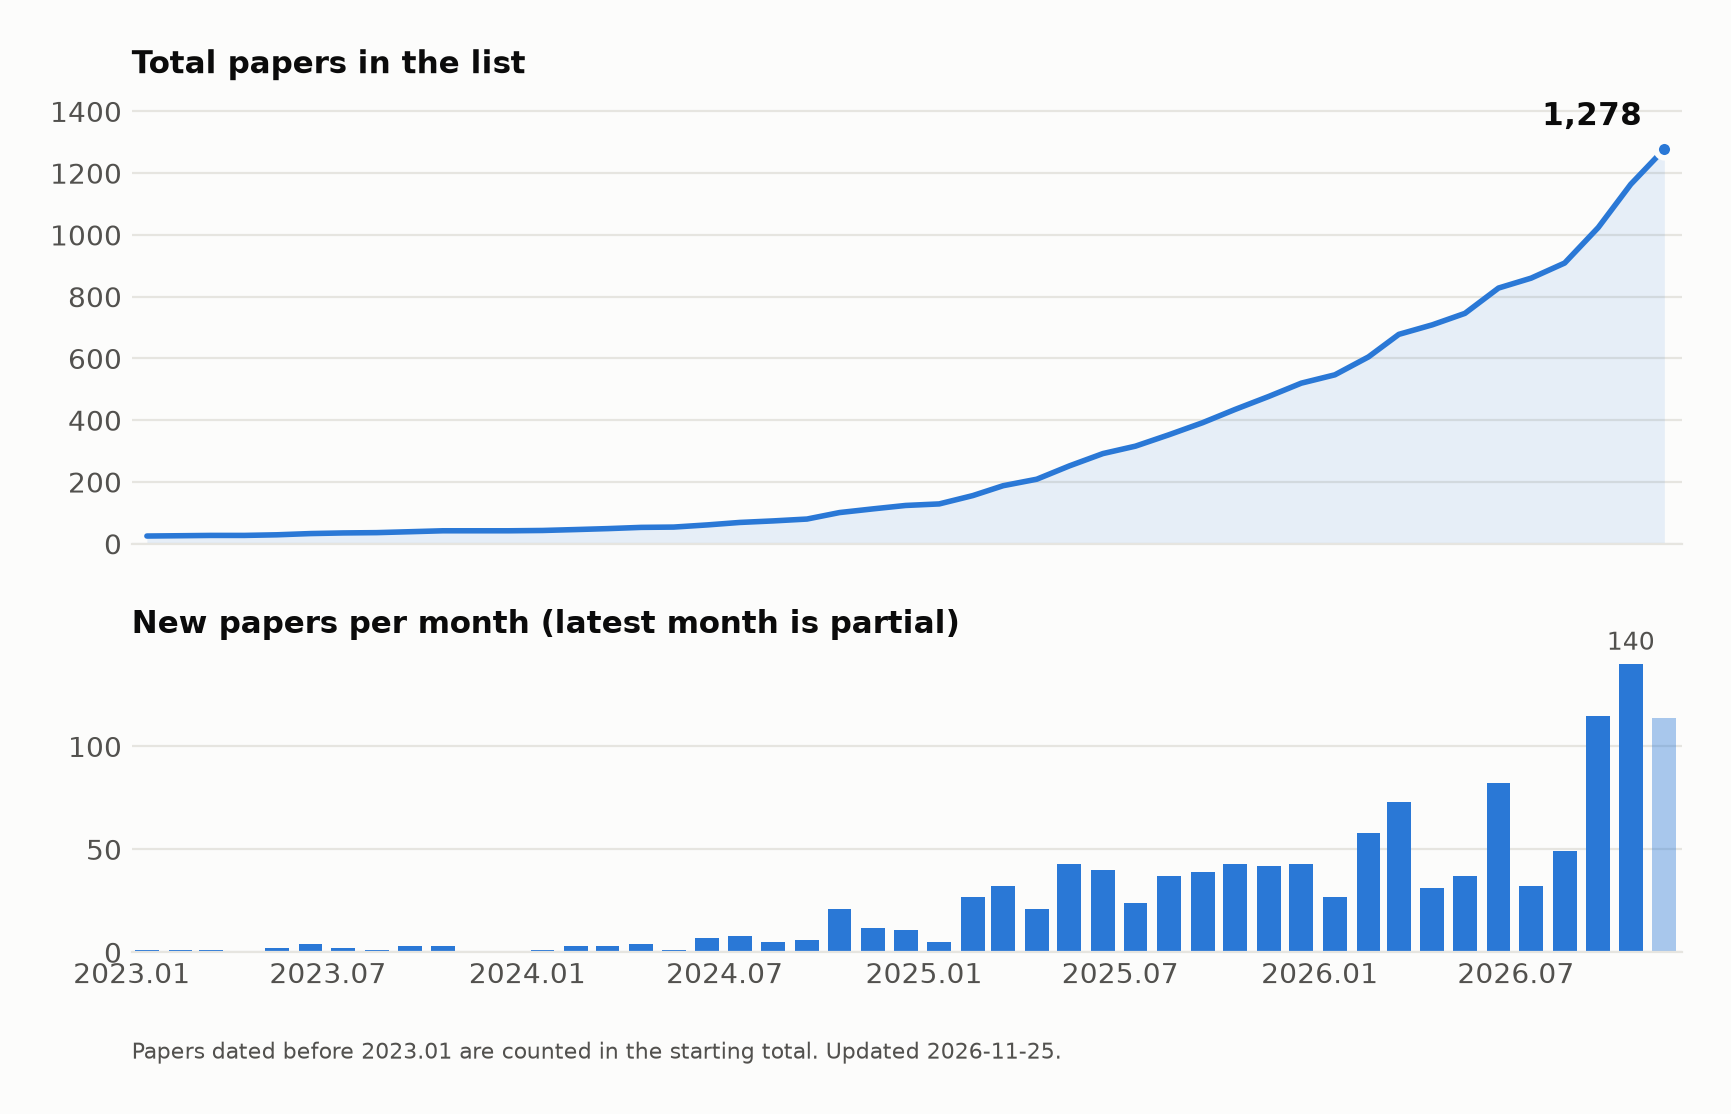
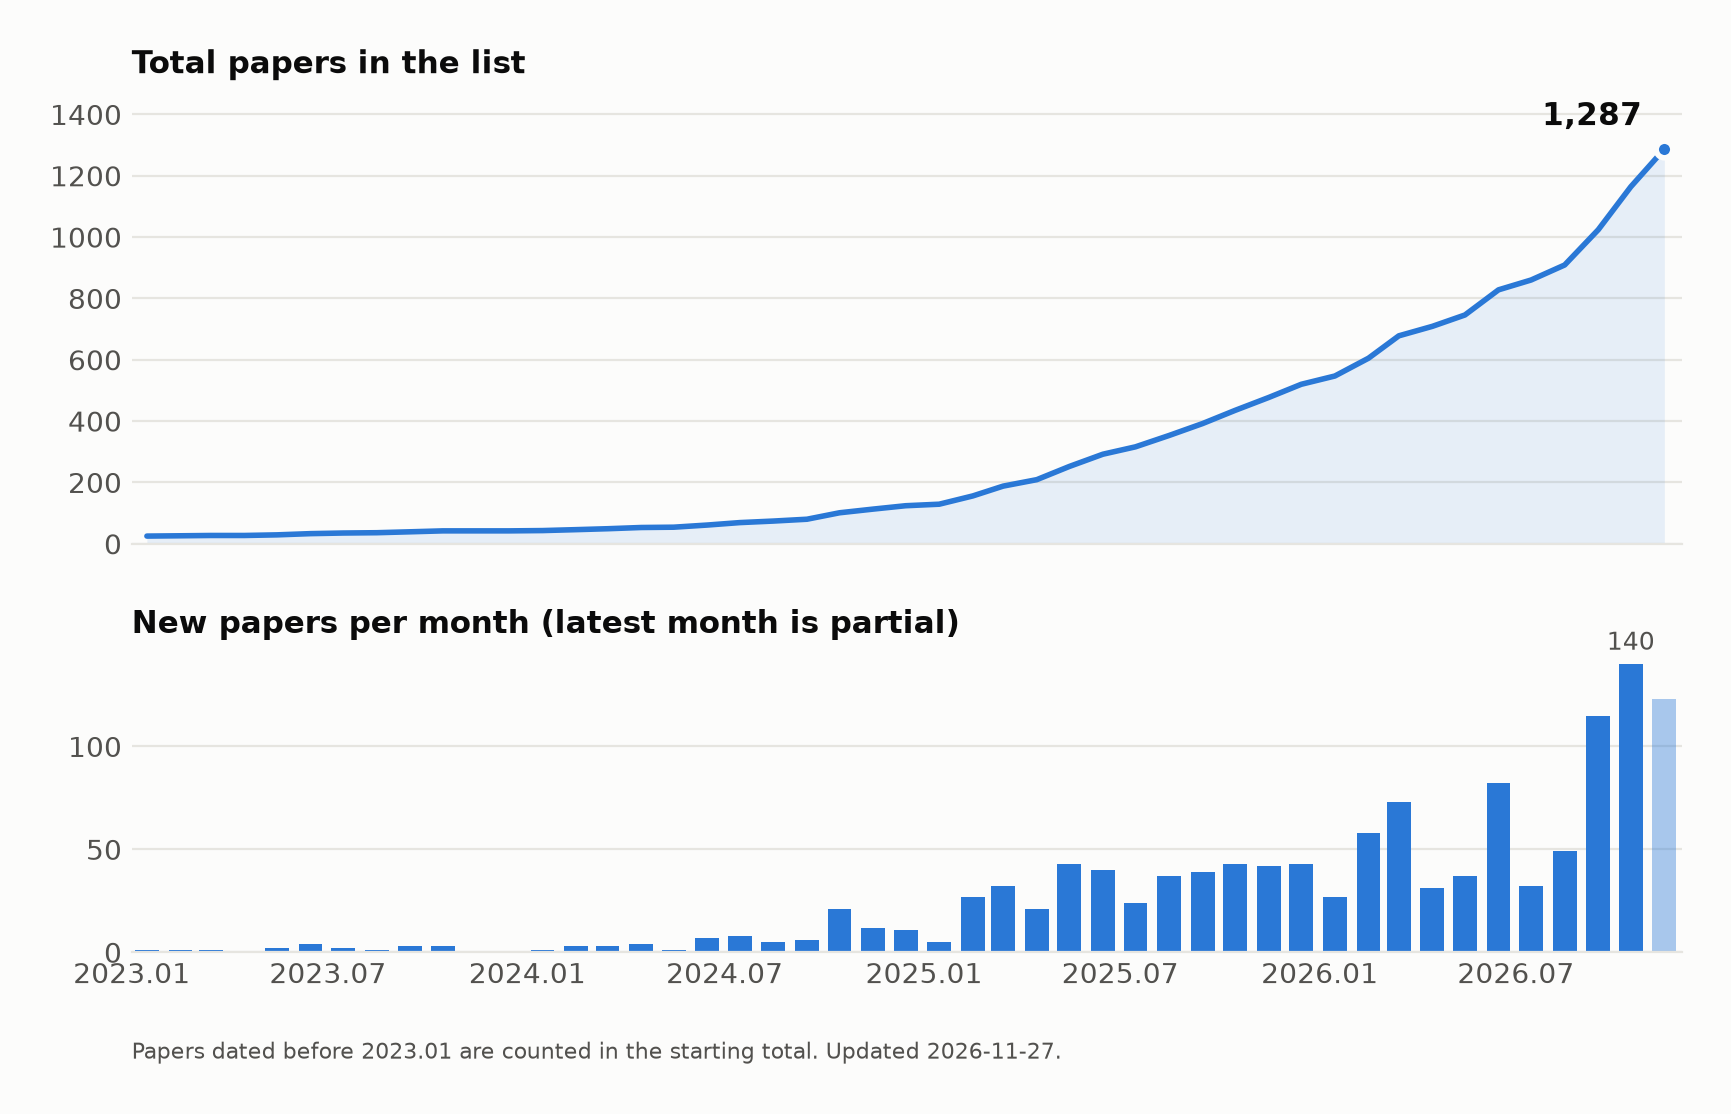
Add 9 papers from arXiv (2026-11-27)

diff --git a/README.md b/README.md
@@ -31,6 +31,7 @@ Feel free to pull a request for new papers/codes about humanoid robot learning.
 - [CoRL 2026.11](https://openreview.net/forum?id=93leGzRaPV), InfiniDanceRobot: A Streaming and Closed-Loop Music-driven Dance Generation for Humanoid Robot
 - [CoRL 2026.11](https://openreview.net/forum?id=qF26obIUEX), EVOLVE: Egocentric Vision-based Humanoid Loco-Manipulation via Demonstration Editing
 - [CoRL 2026.11](https://openreview.net/forum?id=wALhOwQWnx), Learning Functional Compliance in Whole-body Manipulation
+- [arXiv 2026.11.25](https://arxiv.org/abs/2611.33828), Learning a Whole-Body Pivot-Walking Gait for Heavy-Box Transport with a Humanoid
 - [arXiv 2026.11.24](https://arxiv.org/abs/2611.32944), DynaMimic: A Physics-Informed World Model for Humanoid Motion Tracking
 - [arXiv 2026.11.24](https://arxiv.org/abs/2611.32665), DiffGR00T: Execution-Aware Differentiable Training for Humanoid Whole-Body Vision-Language-Action Models
 - [arXiv 2026.11.24](https://arxiv.org/abs/2611.32642), BARE: Body-Aware Reflexive Evasion for Humanoid Robots
@@ -580,6 +581,8 @@ Feel free to pull a request for new papers/codes about humanoid robot learning.
 - [2024.08](https://la.disneyresearch.com/publication/vmp-versatile-motion-priors-for-robustly-tracking-motion-on-physical-characters/), VMP: Versatile Motion Priors for Robustly Tracking Motion on Physical Characters, [website](https://la.disneyresearch.com/publication/vmp-versatile-motion-priors-for-robustly-tracking-motion-on-physical-characters/)
 - [2024.07](https://la.disneyresearch.com/publication/robot-motion-diffusion-model-motion-generation-for-robotic-characters/), Robot Motion Diffusion Model: Motion Generation for Robotic Characters,
 ## Manipulation
+- [arXiv 2026.11.25](https://arxiv.org/abs/2611.34884), FineDex: Bridging Fine-Grained Human-Object Interaction Generation to Dexterous Humanoid Manipulation, [code](https://github.com/zyjOrz/FineDex)
+- [arXiv 2026.11.25](https://arxiv.org/abs/2611.34675), RoboEvo²: Recursive Robot Self-Improvement via Harness-Policy Co-Evolution
 - [arXiv 2026.11.18](https://arxiv.org/abs/2611.24940), Z-sight: Unifying Vision-Language-Action and Latent World Modeling, [website](https://junjieye.com/Z-sight/)
 - [arXiv 2026.11.13](https://arxiv.org/abs/2611.18976), TMA: Sim-to-Real Forceful Humanoid Manipulation via Tactile-Driven Motor Adaptation
 - [arXiv 2026.11.13](https://arxiv.org/abs/2611.18491), When Will You Hand It Over? A Hidden Start Delay Makes Self-Play Handover Robust to Unfamiliar Partners
@@ -758,6 +761,8 @@ Feel free to pull a request for new papers/codes about humanoid robot learning.
 
 
 ## Locomotion
+- [arXiv 2026.11.25](https://arxiv.org/abs/2611.34569), Riding the Wave: Sim-to-Real Humanoid Control on Elastic Terrain, [website](https://fly-pigTH.github.io/wave_rider/)
+- [arXiv 2026.11.24](https://arxiv.org/abs/2611.33407), An Adversarial Multi-Agent Pursuit Game for Locomotor Agility Pretraining
 - 🌟[arXiv 2026.11.19](https://arxiv.org/abs/2611.26074), Controlling the Humanoid Robot H1-2 With a Simulated Biologically Plausible Network, [code](https://github.com/fatima-at/Bio_SNN_h12)
 - [arXiv 2026.11.19](https://arxiv.org/abs/2611.26054), Reference-Free Humanoid Skateboarding via Termination-Shaped Reinforcement Learning, Humanoids 2026
 - [arXiv 2026.11.18](https://arxiv.org/abs/2611.23916), ReLoco: Unified Humanoid Locomotion and Fall Recovery via Behavior-Conditioned Motion Priors
@@ -1068,6 +1073,7 @@ Feel free to pull a request for new papers/codes about humanoid robot learning.
 
 
 ## Sim-to-Real
+- [arXiv 2026.11.23](https://arxiv.org/abs/2611.30784), Beyond Domain Randomization: Real-World Policy Adaptation in Learned Dynamics for Legged Robots
 - [arXiv 2026.11.14](https://arxiv.org/abs/2611.19616), Towards Probabilistically Safe Reinforcement Learning: Theory and Deployment on Humanoid and Aerial Robots
 - [arXiv 2026.11.11](https://arxiv.org/abs/2611.15524), Reading the Table: Sim-to-Real Game State Detection for the Chef's Hat Card Game
 - [arXiv 2026.10](https://arxiv.org/abs/2610.32277), Delay Randomization Widens the Delay Margin of Learned Humanoid Motion Trackers
@@ -1221,6 +1227,8 @@ Feel free to pull a request for new papers/codes about humanoid robot learning.
 - arXiv 2024.12, **Genesis**: A Generative and Universal Physics Engine for Robotics and Beyond, [code](https://github.com/Genesis-Embodied-AI/Genesis) / [website](https://genesis-embodied-ai.github.io/)
 
 ## Physics-Based Character Animation
+- [arXiv 2026.11.24](https://arxiv.org/abs/2611.33460), Fast Muscle-Driven Whole-Body Motion Tracking with a Differentiable World Model, [website](https://muscle-supermimic.beanpow.top)
+- [arXiv 2026.11.24](https://arxiv.org/abs/2611.33011), MESSI: Multi-Expert Soccer Skill Integration for Physics-Based Character Control
 - [arXiv 2026.11.23](https://arxiv.org/abs/2611.30312), One Policy, Many Bodies: Cooperative Human-Object Interaction with Heterogeneous Teams
 - [arXiv 2026.11.22](https://arxiv.org/abs/2611.29749), CarlHOI: Counterfactual Predictive Imagination for Generalizable Multi-Humanoid Object Interaction under Constrained Environments, [website](https://carlhoi.github.io)
 - [arXiv 2026.11.20](https://arxiv.org/abs/2611.27603), Synthesizing Expressive Human-Object Interactions via Test-time Latent Adaptation
@@ -1311,6 +1319,7 @@ Feel free to pull a request for new papers/codes about humanoid robot learning.
 
 - [SIGGRAPH 2010](https://dl.acm.org/doi/abs/10.1145/1833349.1778770?casa_token=j3esx-hx0GAAAAAA:OvRU6YYrNo2ZP9IyXGVDryWJqHmvU-oVhnzog8RFKKySQJjganzaAmHff6CQ4a0qzfJZu-J6Buf4Ug), Spatial relationship preserving character motion adaptation
 ## Human Motion Analysis and Synthesis
+- [arXiv 2026.11.25](https://arxiv.org/abs/2611.34519), AGLR: Attribute-Guided Latent Refinement for Fine-Grained Humanoid Motion Generation and Editing
 - 🌟[arXiv 2026.11.23](https://arxiv.org/abs/2611.29897), Motion Mamba 2.0: Autoregressive Diffusion Mamba for Long-Horizon Humanoid Control, [website](https://aigeeksgroup.github.io/MotionMamba2.0), [code](https://github.com/AIGeeksGroup/MotionMamba2.0)
 - 🌟[arXiv 2026.11.19](https://arxiv.org/abs/2611.25801), Fast and Accurate Body Estimation in Pixels, World Space and Scenes, [website](https://www.jinkuncao.com/FAB), [code](https://github.com/noahcao/FAB)
 - [arXiv 2026.11.18](https://arxiv.org/abs/2611.25005), Inhabitant: An Agent Framework for Long-Horizon Human-Scene Interaction with Spatial Control and Quantitative Feedback, [website](https://ryenhails.github.io/Inhabitant/)
